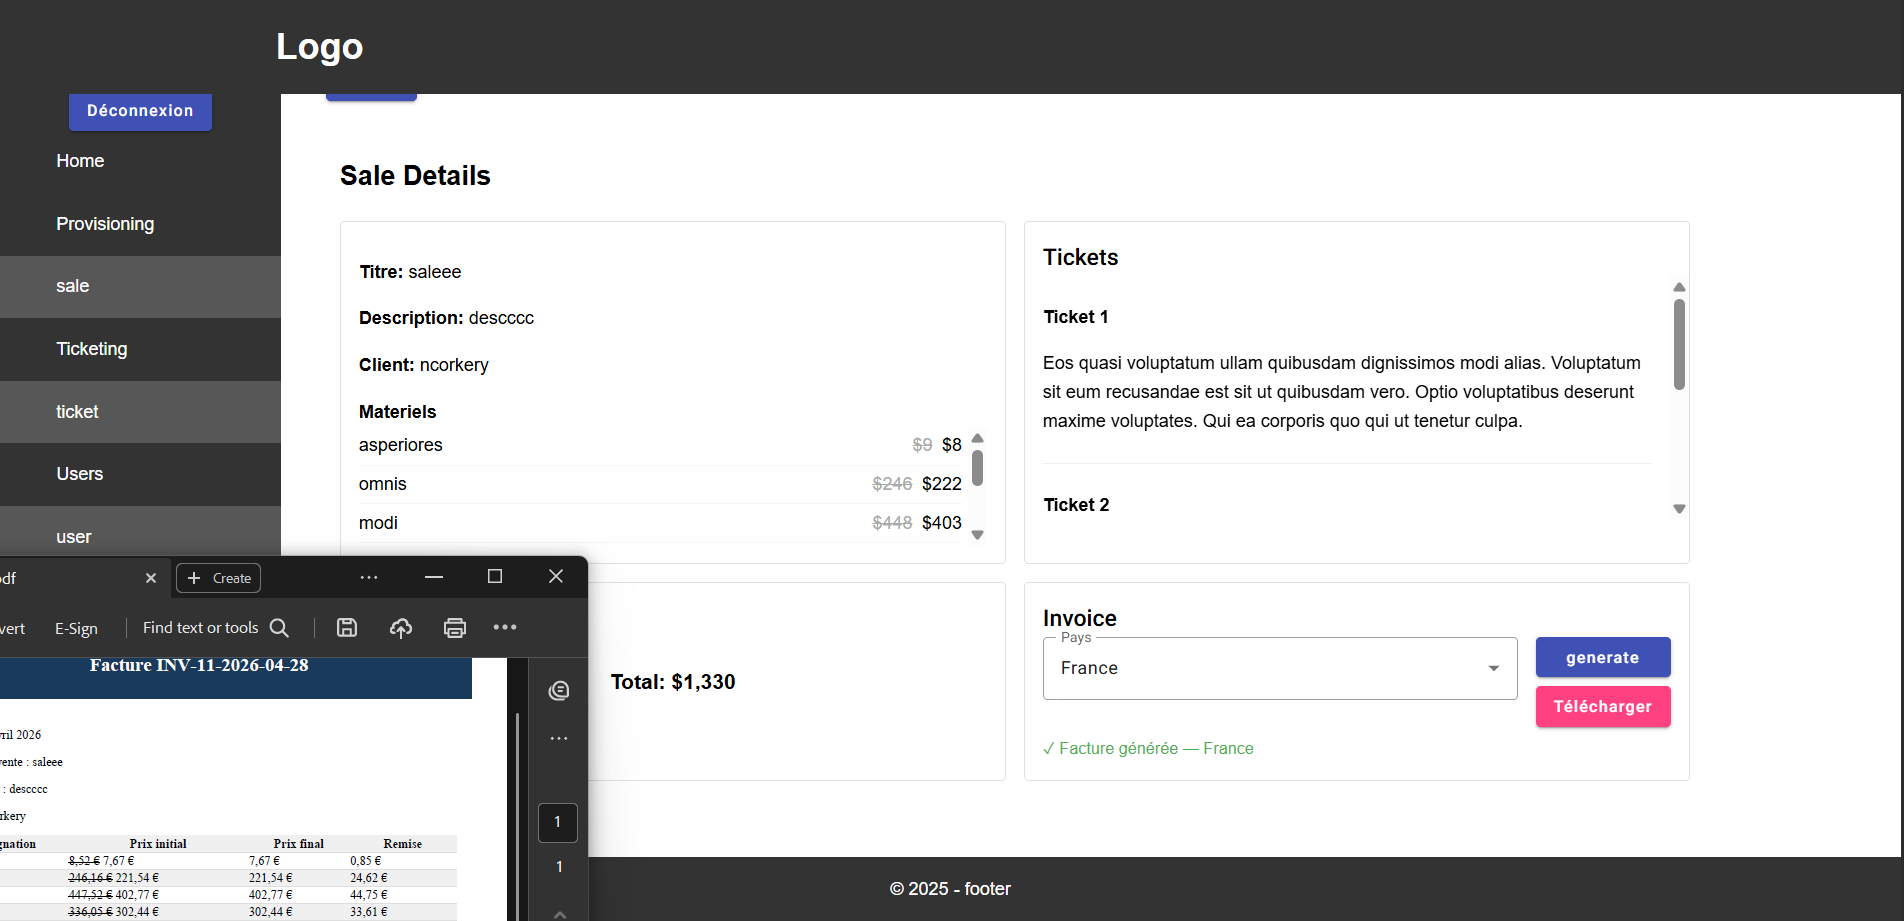
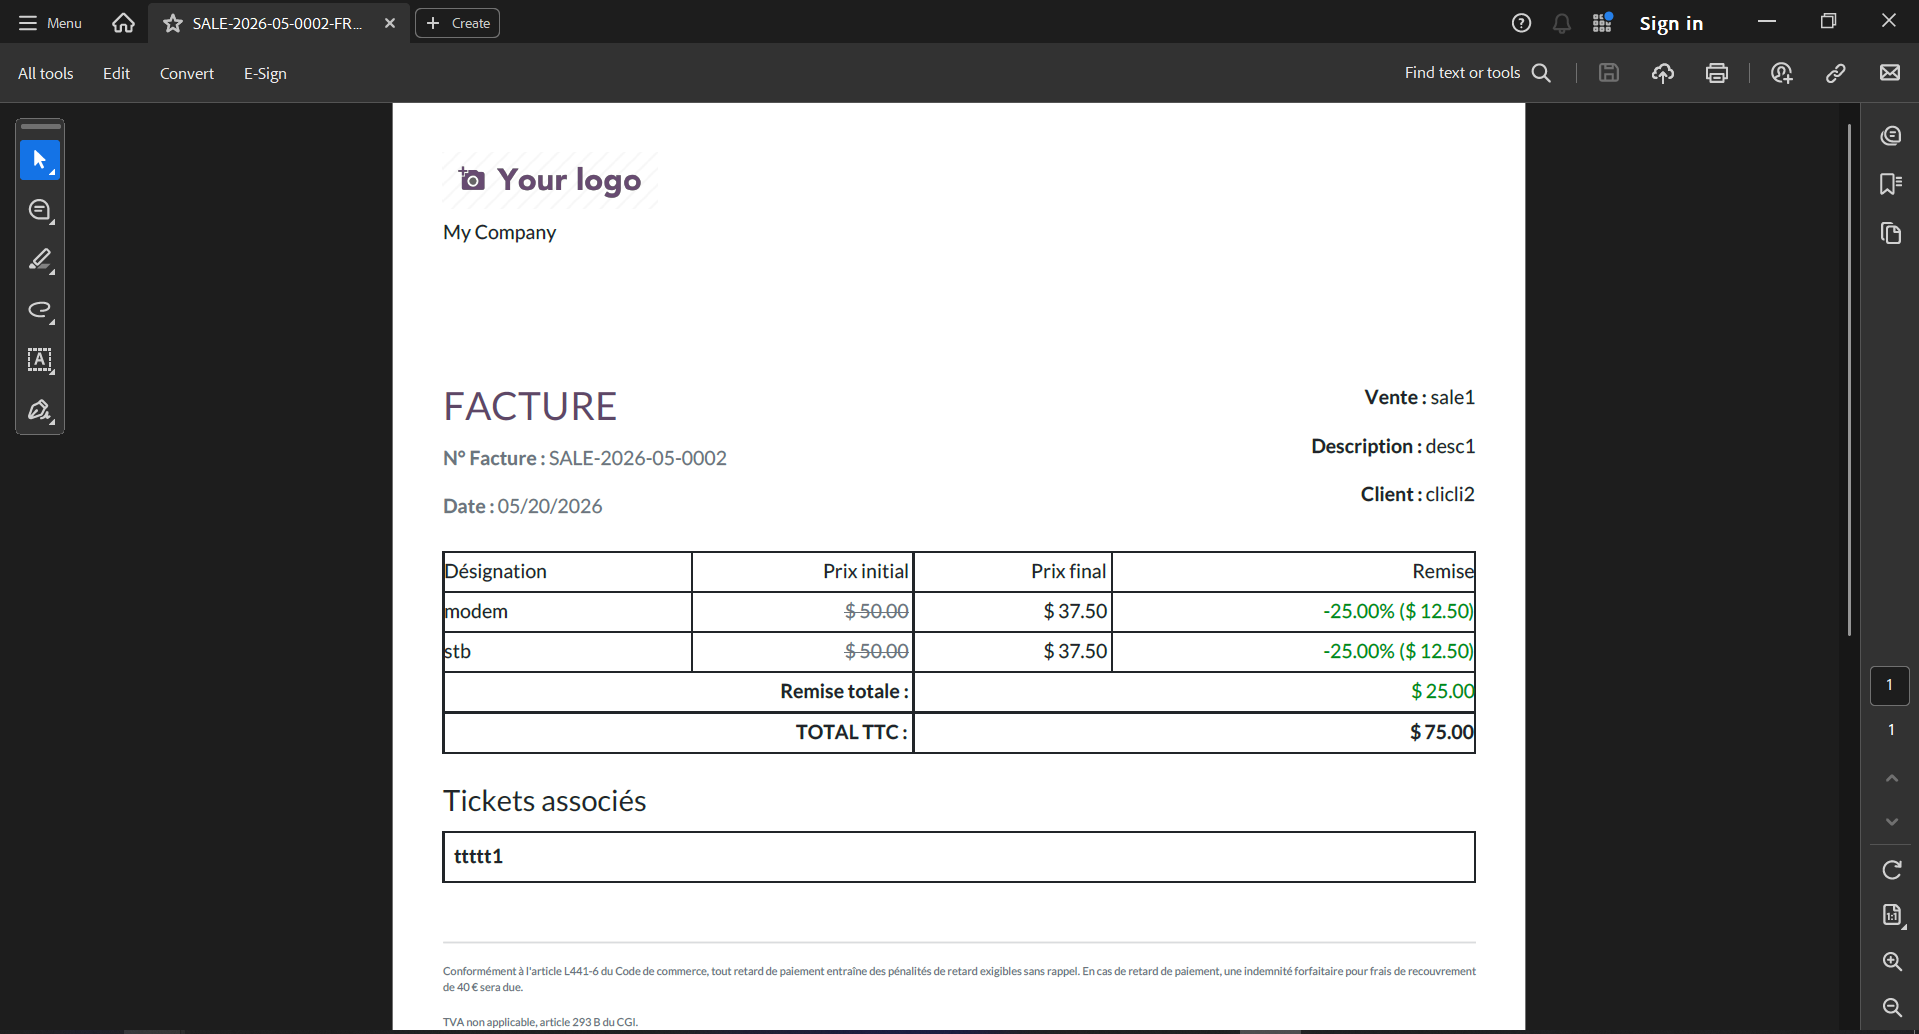
Odoo 19

diff --git a/README.en.md b/README.en.md
@@ -273,14 +273,14 @@ Add `workers = 0` in `docker/odoo.conf` to switch to single-thread mode (recomme
 ![Tickets view](ressources/tickets.png)
 *Tickets list with dark sidebar*
 
-![Materials view](ressources/materials.png)
-*Materials CRUD*
+![Dashboard view](ressources/dashboard.png)
+*Dashboard*
 
 ![Sale detail](ressources/sale.png)
 *Sale form with material lines, discounts and ticket count*
 
 ![PDF Invoice](ressources/bill_pdf.png)
-*Generated PDF invoice — France localization*
+*Generated PDF invoice*
 
 ![Login page](ressources/login.png)
 *Custom login page matching Angular design*

diff --git a/README.fr.md b/README.fr.md
@@ -273,14 +273,14 @@ Ajouter `workers = 0` dans `docker/odoo.conf` pour passer en mode single-thread 
 ![Vue Tickets](ressources/tickets.png)
 *Liste des tickets avec sidebar sombre*
 
-![Vue Matériels](ressources/materials.png)
-*CRUD Matériels*
+![Vue Dashboard](ressources/dashboard.png)
+*Dashboard*
 
 ![Détail Vente](ressources/sale.png)
 *Formulaire vente avec lignes matériels, remises et compteur tickets*
 
 ![Facture PDF](ressources/bill_pdf.png)
-*Facture PDF générée — localisation France*
+*Facture PDF générée*
 
 ![Page de login](ressources/login.png)
 *Page de login custom reproduisant le design Angular*